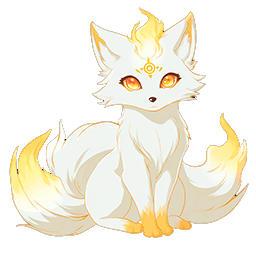
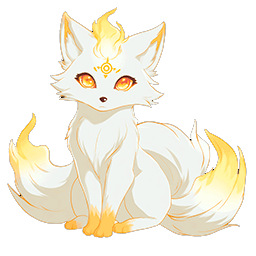
подготовка к битве

diff --git a/front/src/components/game/BattleStartDialog.vue b/front/src/components/game/BattleStartDialog.vue
@@ -194,6 +194,7 @@ const filteredCreatures = computed(() => {
                                         :creature="creature"
                                         :active="selectedCreatureIds.includes(creature.id)"
                                         @click="toggleCreatureSelection(creature)"
+                                        direction="right"
                                     />
                                 </q-list>
                             </QScrollArea>
@@ -216,6 +217,7 @@ const filteredCreatures = computed(() => {
                                         :creature="creature"
                                         :active="true"
                                         @click="toggleCreatureSelection(creature)"
+                                        direction="right"
                                     />
                                 </q-list>
                             </QScrollArea>
@@ -272,6 +274,7 @@ const filteredCreatures = computed(() => {
                                         :key="creature.id"
                                         :creature="creature"
                                         :active="false"
+                                        direction="left"
                                     />
                                 </q-list>
                             </QScrollArea>

diff --git a/front/src/components/game/BattleStartDialogCreature.vue b/front/src/components/game/BattleStartDialogCreature.vue
@@ -16,6 +16,7 @@ defineProps({
         required: true
     },
     active: false,
+    direction: 'left'
 })
 
 </script>
@@ -51,6 +52,7 @@ defineProps({
                     :src="creature.number ? '/assets/creatures/basic/' + creature.number + '.png' : 'https://img.league17.ru/pub/mnst/norm/full/502.png'"
                     :alt="creature.name"
                     class="creature-image"
+                    :class="{mirror: direction === 'right'}"
                 />
             </q-avatar>
         </q-item-section>
@@ -78,4 +80,7 @@ defineProps({
 </template>
 
 <style scoped>
+.mirror {
+    transform: scaleX(-1);
+}
 </style>

diff --git a/front/src/components/game/BattleQueueVertical.vue b/front/src/components/game/BattleQueueVertical.vue
@@ -109,7 +109,7 @@ const clearHoverCreature = () => {
                             :src="creature.texture ? '/assets/creatures/basic/' + creature.texture + '.png' : 'https://img.league17.ru/pub/mnst/norm/full/502.png'"
                             :alt="creature.name"
                             class="creature-image"
-                            :class="{mirror: creature.direction === 'left'}"
+                            :class="{mirror: creature.direction === 'right'}"
                         />
                     </q-avatar>
                 </q-item-section>
